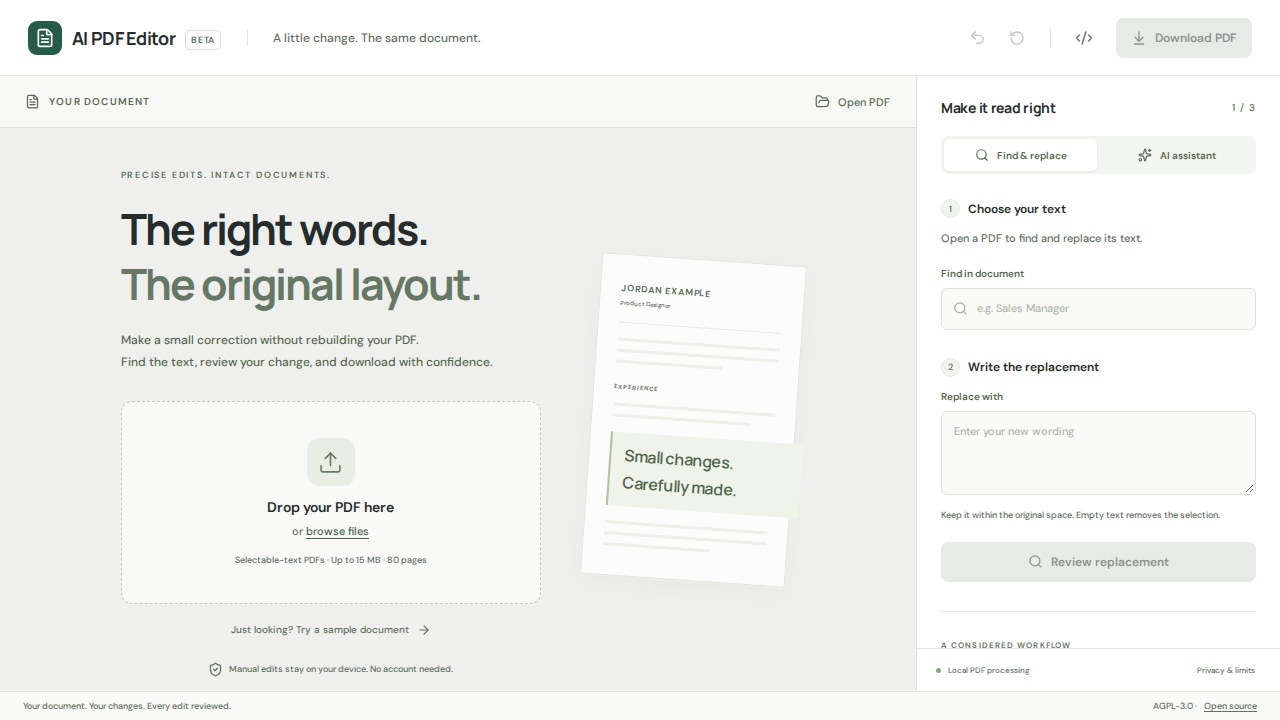
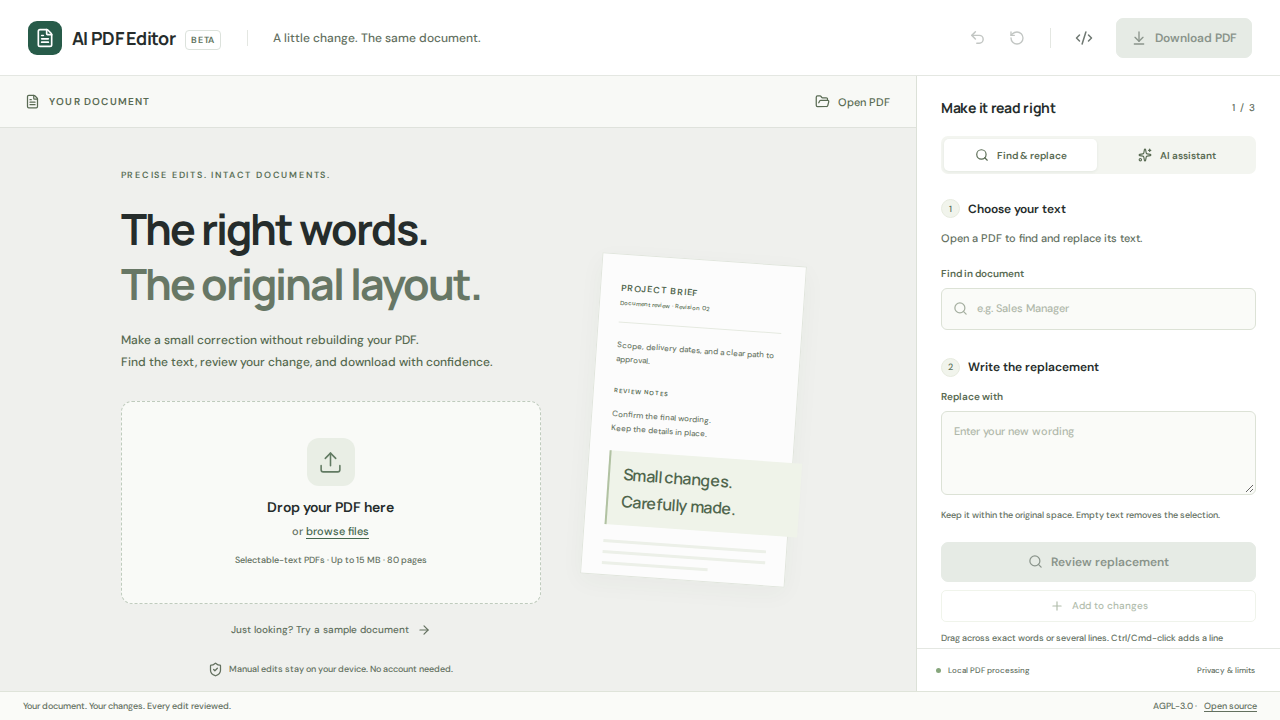
docs(batch): publish real production export evidence and document invoice investigation

diff --git a/tests/redaction-edge.test.ts b/tests/redaction-edge.test.ts
@@ -2,7 +2,7 @@ import {it,expect} from 'vitest';
 import {PDFDocument,StandardFonts} from 'pdf-lib';
 import {inspectPDF,proposePDF,applyPDF} from '../src/engine/pdf';
 import {findTargets,History} from '../src/engine/model';
-it.each(['horizontal','vertical'])('preserves a barely touching %s neighbor during invoice-number redaction',async(direction)=>{
+it.each(['horizontal','vertical'])('safely handles a barely touching %s neighbor during invoice-number redaction',async(direction)=>{
   const size=9.8,x=476,y=742;
   const seedDoc=await PDFDocument.create(), seedFont=await seedDoc.embedFont(StandardFonts.HelveticaBold);
   seedDoc.addPage([612,792]).drawText('0089033',{x,y,size,font:seedFont});
@@ -18,8 +18,16 @@ it.each(['horizontal','vertical'])('preserves a barely touching %s neighbor duri
   expect(findTargets(before,neighbor),'Regression source must contain its neighbor').toHaveLength(1);
   const actual=findTargets(before,'0089033')[0];
   const op={target:actual,replacement:'1000'};
-  expect(proposePDF(source,op).status).toBe('SAFE_TO_APPLY');
+  const review=proposePDF(source,op);
   const history=new History(source);
+  if(direction==='horizontal') {
+    expect(review.status).toBe('UNSUPPORTED');
+    expect(()=>applyPDF(history.current,op)).toThrow();
+    expect(history.current).toEqual(source);
+    expect(history.length).toBe(0);
+    return;
+  }
+  expect(review.status,review.message).toBe('SAFE_TO_APPLY');
   const output=applyPDF(history.current,op);
   history.commit(output.bytes);
   expect(findTargets(output.model,neighbor),JSON.stringify({before:before.pages[0].lines.map(l=>l.text),after:output.model.pages[0].lines.map(l=>l.text)})).toHaveLength(1);

diff --git a/README.md b/README.md
@@ -9,6 +9,8 @@ Careful corrections to existing PDF text, with an explicit review step and check
 ## What works
 
 - PDF upload/drop, multi-page navigation, zoom, fit-to-width, selectable text lines and exact find.
+- Exact partial-text and multi-line drag selection, Ctrl/Cmd-assisted addition, and persistent non-contiguous selections across pages.
+- Compact batch queue with individual replacements/inclusion/removal, a common replacement action, review/apply-all, and one-step undo for the entire atomic batch.
 - Explicit occurrence selection when text appears multiple times.
 - Review source/replacement, page/position, font/size, measured fit and rejection reasons.
 - Actual source-text removal through applied redaction, followed by real page-content insertion. No rectangle covering old text and no annotation-only mock edits.
@@ -18,19 +20,19 @@ Careful corrections to existing PDF text, with an explicit review step and check
 
 ## Honest support boundaries
 
-This release edits short **single-line printable Latin ASCII text in standard Helvetica, Times and Courier PDF fonts**. Replacement width must fit the original span. It preserves original size, baseline and color; it does not shrink text, substitute fonts or reflow paragraphs.
+This release edits short **printable Latin ASCII spans in standard Helvetica, Times and Courier PDF fonts**. Selections can span unrelated locations, lines and pages. Multi-line selections keep one replacement per original line; each span preserves its own baseline. Replacement width must fit the original span. It preserves original size, baseline and color; it does not shrink text, substitute fonts or reflow paragraphs.
 
-Embedded/subset/custom fonts (including Cyrillic), scans, forms/signatures, encrypted/restricted/repaired PDFs, tagged semantic trees, rotation/skew, clipping, outlined/transparent text and difficult overlaps are rejected or view-only. Upload limits: 15 MB, 80 pages, bounded page dimensions and text counts. History: 20 edits or 80 MB. Engine work runs in a Web Worker with a 45-second timeout.
+Embedded/subset/custom fonts (including Cyrillic), scans, forms/signatures, encrypted/restricted/repaired PDFs, tagged semantic trees, rotation/skew, clipping, outlined/transparent text and difficult overlaps are rejected or view-only. Upload limits: 15 MB, 80 pages, bounded page dimensions and text counts. History: 20 transactions or 80 MB; up to 40 changes per batch. Engine work runs in a Web Worker with a 45-second timeout.
 
 Validation at 108 dpi is evidence, not a guarantee of every printer, viewer or PDF feature. This editor is **not a certified document sanitization product**: content could also exist in metadata, attachments or other locations.
 
 ## Measured editing gate
 
-**31 distinct synthetic PDFs investigated: 23 PASS, 8 EXPECTED UNSUPPORTED, 0 FAIL.** Fixtures cover English, Cyrillic, standard/embedded/subset fonts, font styles/sizes, longer/shorter strings, duplicates, multiple pages, resumes, invoices, tables, vectors, nearby text, colors, hyperlinks and difficult cases. They contain no real private information.
+**32 distinct synthetic PDFs investigated: 24 PASS, 8 EXPECTED UNSUPPORTED, 0 FAIL.** Fixtures cover English, Cyrillic, standard/embedded/subset fonts, font styles/sizes, longer/shorter strings, duplicates, multiple pages, resumes, invoices, tables, vectors, nearby text, colors, hyperlinks and difficult cases. They contain no real private information.
 
 Every successful proof-of-concept export reopened with independent PDF.js extraction. Every affected and unaffected page was raster-compared at 108 dpi; zero unexpected pixels outside the original target span plus a two-pixel antialias margin. The original input remained unchanged. See [engine decision](docs/ADR-001-pdf-engine.md), [test matrix](docs/TEST-MATRIX.md) and [machine-readable evidence](tests/evidence/results.json).
 
-GitHub-hosted verification passed **34 unit/integration/safety tests** and **12 end-to-end tests across Chromium, Firefox and WebKit**, plus typecheck, lint, production build and Worker dry-run. The actual public deployment passed **4 Chromium production smoke cases**. A separate hosted PDF.js check independently verified the real AI-downloaded export: replacement searchable, original target absent, same page count and all other extracted text preserved.
+The hosted quality gate runs unit/integration/safety tests, the 32-PDF proof, typecheck/lint/build, Worker compilation, and **24 browser tests across Chromium, Firefox and WebKit**. All 24 browser cases passed. The actual public deployment passed **8 Chromium smoke cases**, including a manual batch → real download → independent PDF.js verification → one-step undo, with zero AI requests. [Batch architecture and evidence](docs/BATCH-EDITING.md) documents the transaction model and the screenshot invoice's remaining document-specific investigation.
 
 ## Architecture
 
@@ -94,6 +96,10 @@ Read [deployment instructions and minimum authorization](docs/DEPLOYMENT.md). De
 ## License and reuse
 
 Combined application: **AGPL-3.0-only**, with [full license](LICENSE) and [dependency inventory](docs/DEPENDENCY-LICENSES.md). MuPDF is AGPL-3.0-or-later, not MIT. Proprietary reuse of this combined engine requires replacing MuPDF or obtaining appropriate commercial licensing from Artifex. Preserve upstream notices and provide corresponding source when distributing or hosting modified versions. Self-hosted UI fonts use SIL OFL-1.1.
+
+## Known invoice-specific investigation
+
+The screenshot invoice produced “Validation failed: neighboring text changed.” A synthetic invoice using matching 9.8 pt standard-font geometry passes, and nearby-field/transaction regressions are covered. The original PDF bytes were not provided, so its exact failure is **not claimed fixed**. Integrity failures continue to block export and preserve the previous valid snapshot. A sanitized reproducing PDF is needed to finish that specific diagnosis.
 
 ## Next improvements
 

diff --git a/docs/TEST-MATRIX.md b/docs/TEST-MATRIX.md
@@ -2,7 +2,7 @@
 
 Run `pnpm fixtures` then `pnpm poc`. Fixtures are synthetic and redistributable; they are generated with pdf-lib, with full/subset Liberation Sans from the PDF.js distribution for font-coverage cases. No genuine personal, employee, customer or financial records.
 
-Executed gate: **31 distinct PDFs; 23 PASS; 8 EXPECTED UNSUPPORTED; 0 FAIL.** Repeated copies are not counted as distinct fixtures. Supporting JSON: `tests/evidence/results.json`. Successful edits have reopened bytes, preserved page count, exact replacement/removal within the region, selectable/searchable text checked independently by PDF.js, unaffected glyph geometry, preserved links, and all-page pixel comparisons with zero unexpected pixels beyond the original span plus two-pixel raster margin.
+Executed gate: **32 distinct PDFs; 24 PASS; 8 EXPECTED UNSUPPORTED; 0 FAIL.** Repeated copies are not counted as distinct fixtures. Supporting JSON: `tests/evidence/results.json`. Successful edits have reopened bytes, preserved page count, exact replacement/removal within the region, selectable/searchable text checked independently by PDF.js, unaffected glyph geometry, preserved links, and all-page pixel comparisons with zero unexpected pixels beyond the original span plus two-pixel raster margin.
 
 | ID | Scenario | Result |
 |---|---|---|
@@ -37,13 +37,16 @@ Executed gate: **31 distinct PDFs; 23 PASS; 8 EXPECTED UNSUPPORTED; 0 FAIL.** Re
 | 29 | Fully embedded Liberation Sans | EXPECTED UNSUPPORTED — no font substitution |
 | 30 | Subset Liberation Sans | EXPECTED UNSUPPORTED — no font substitution |
 | 31 | Russian/Cyrillic text | EXPECTED UNSUPPORTED — Unicode editing not supported |
+| 32 | Dense three-page invoice, Helvetica-Bold 9.8 pt and multiple field edits | PASS |
 
 The scan analogue tests absence of selectable text; it is not counted as a photographic scan/OCR benchmark. Full arbitrary embedded-font support is not implied by successful standard-font cases.
 
 ## Additional automated checks
 
-Executed GitHub-hosted Vitest suite: **34 tests, all pass**. Coverage includes exact/missing/ambiguous targets, normalization, forged rectangles/stale references, repeated edits/undo/reset/source immutability, unsupported fonts, overflow, real encrypted PDFs, corruption/type/size limits, Unicode/newline rejection, opacity/overlap/clipping, a 20-page document, validation evidence, strict AI schemas, allowed origins, Turnstile host/action, persistent budget decisions, provider/network/malformed-output errors, resolved proposals, subscription-plan rejection and secret-provisioning isolation.
+The Vitest suite contains **46 unit/integration/safety tests**; actual run results are retained in [GitHub Actions](https://github.com/academ1cian/ai-pdf-editor/actions). Coverage includes exact/missing/ambiguous targets, normalization, forged rectangles/stale references, repeated edits/undo/reset/source immutability, unsupported fonts, overflow, real encrypted PDFs, corruption/type/size limits, Unicode/newline rejection, opacity/overlap/clipping, a 20-page document, validation evidence, strict AI schemas, allowed origins, Turnstile host/action, persistent budget decisions, provider/network/malformed-output errors, resolved proposals, subscription-plan rejection and secret-provisioning isolation.
 
-Executed GitHub-hosted browser suite: **12 tests, all pass** across Chromium, Firefox and WebKit (four each). Upload → render → manual review → apply → download → independent PDF.js extraction → unchanged original → undo/reset; invalid files/mobile layout; duplicate selection/overflow/scan handling; sample workflow; WCAG2 A/AA audits and keyboard privacy-dialog dismissal. Both production JS and WASM are exercised.
+Executed GitHub-hosted browser suite: **24 tests, all pass** across Chromium, Firefox and WebKit (eight each). Upload → render → manual review → apply → download → independent PDF.js extraction → unchanged original → undo/reset; invalid files/mobile layout; duplicate selection/overflow/scan handling; sample workflow; WCAG2 A/AA audits and keyboard privacy-dialog dismissal. Both production JS and WASM are exercised.
 
-Actual public HTTPS deployment: **4 Chromium smoke cases, all pass**, with exact commit verification. Real browser Turnstile and Groq returned the requested synthetic name replacement. The actual downloaded AI export independently passed PDF.js comparison on a hosted runner. Mocked API unit tests are separate from this real provider evidence. See [production verification](PRODUCTION-VERIFICATION.md) for run links, hashes, provenance and console observations.
+Actual public HTTPS deployment: **8 Chromium smoke cases, all pass**, with exact commit verification. Real browser Turnstile and Groq returned the requested synthetic name replacement. The actual downloaded AI export independently passed PDF.js comparison on a hosted runner. Mocked API unit tests are separate from this real provider evidence. See [production verification](PRODUCTION-VERIFICATION.md) for run links, hashes, provenance and console observations.
+
+Batch regression evidence: [manual multi-selection and transaction model](BATCH-EDITING.md). The two extra touching-glyph cases verify safe preflight rejection or preserved neighbors; they do not establish a reproduction of the screenshot invoice. That original file remains unverified without its bytes.

diff --git a/docs/BATCH-EDITING.md b/docs/BATCH-EDITING.md
@@ -24,6 +24,6 @@ Hosted unit/integration tests cover three distant edits on one page; edits acros
 
 The synthetic dense invoice includes the reported Helvetica-Bold 9.8 pt field geometry. Its shorter numeric replacement passes. **The actual screenshot invoice bytes were not provided; its exact “neighboring text changed” failure is not claimed resolved.** Screenshots cannot reveal the original content streams, fonts or redaction behavior. Failures still block export rather than bypassing integrity checks.
 
-Real browser tests additionally exercise pointer drag across partial lines, persistent cross-page highlights, common replacements, exclusion/removal, review/apply, exported PDF.js text checks and one-step undo/reset. They assert no /api/plan request is made. Production verification remains required before this extension is marked released.
+Real browser tests additionally exercise pointer drag across partial lines, persistent cross-page highlights, common replacements, exclusion/removal, review/apply, exported PDF.js text checks and one-step undo/reset. They assert no /api/plan request is made. Production verification passed on 2026-10-14: [hosted deployment and 8 public browser cases](https://github.com/academ1cian/ai-pdf-editor/actions/runs/38603594003), exact public commit cb70bfd28ef3be27e04ae8bf492d77847c72f53d. The batch test uploaded a three-page synthetic PDF, queued four distant fields, reviewed/applied together, downloaded actual bytes, independently verified each replacement with PDF.js and restored all four with one Undo. It asserted zero /api/plan requests. See [actual export](evidence/production-batch.pdf), [review screenshot](screenshots/batch-review.png), [validated batch](screenshots/batch-applied.png) and [landing polish](screenshots/welcome.png).
 
 Firefox expanded native ranges unexpectedly for absolutely positioned text. The editor therefore resolves actual pointer endpoints against glyph spans and shows the exact resulting selections, with explicit Add to changes as the portable workflow.

diff --git a/docs/PROGRESS.md b/docs/PROGRESS.md
@@ -57,3 +57,10 @@ This log is updated at meaningful milestones. Test and deployment claims must re
 - Expanded real browser tests found Firefox native selection expansion, now resolved from pointer endpoint glyphs, and a numeric option-selector ambiguity in the test, corrected to explicit values.
 - Refined only the landing illustration's content to a neutral project brief; preserved tilt, muted green styling and Small changes / Carefully made overlay.
 - Status: PARTIALLY COMPLETE for the new requirement until updated compatibility tests and actual production batch export verification pass. No AI/budget/Turnstile dependency or paid-service change was introduced.
+
+## 2026-10-14 — Manual batch production verification
+- Hosted 44 unit/integration/safety tests and all 24 Chromium/Firefox/WebKit browser cases passed for release cb70bfd28ef3be27e04ae8bf492d77847c72f53d.
+- Real public deployment passed all 8 hosted Chromium smoke cases (run 38603594003), including four non-contiguous replacements, persistent cross-page highlights, one combined export, independent PDF.js verification of every change, unchanged original and one-step undo. Zero /api/plan requests.
+- Preserved actual production batch PDF, SHA-256, review/applied screenshots and neutral project-brief landing screenshot under docs/evidence and docs/screenshots.
+- Added two extra touching-glyph boundary cases: one safely rejected in preflight; one preserves the neighbor and passes export validation. The original screenshot invoice remains unverified without its PDF bytes. No integrity guard was bypassed and no exact-file fix is claimed.
+- Manual batch editing and requested landing polish are released. The invoice-specific diagnosis remains open; the final evidence/test commit is gated by quality, deployment and public smoke checks before handoff.
